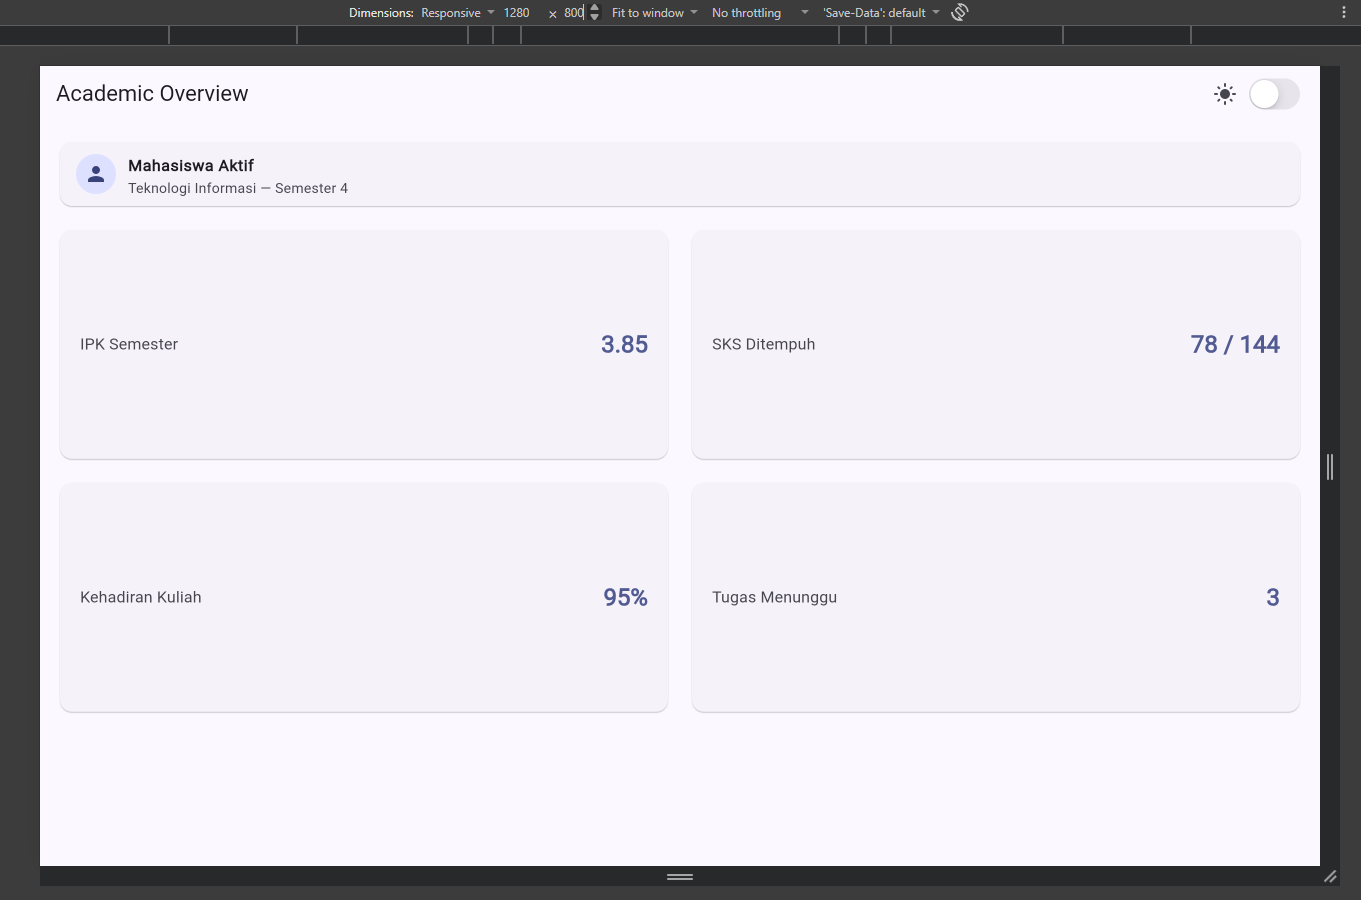
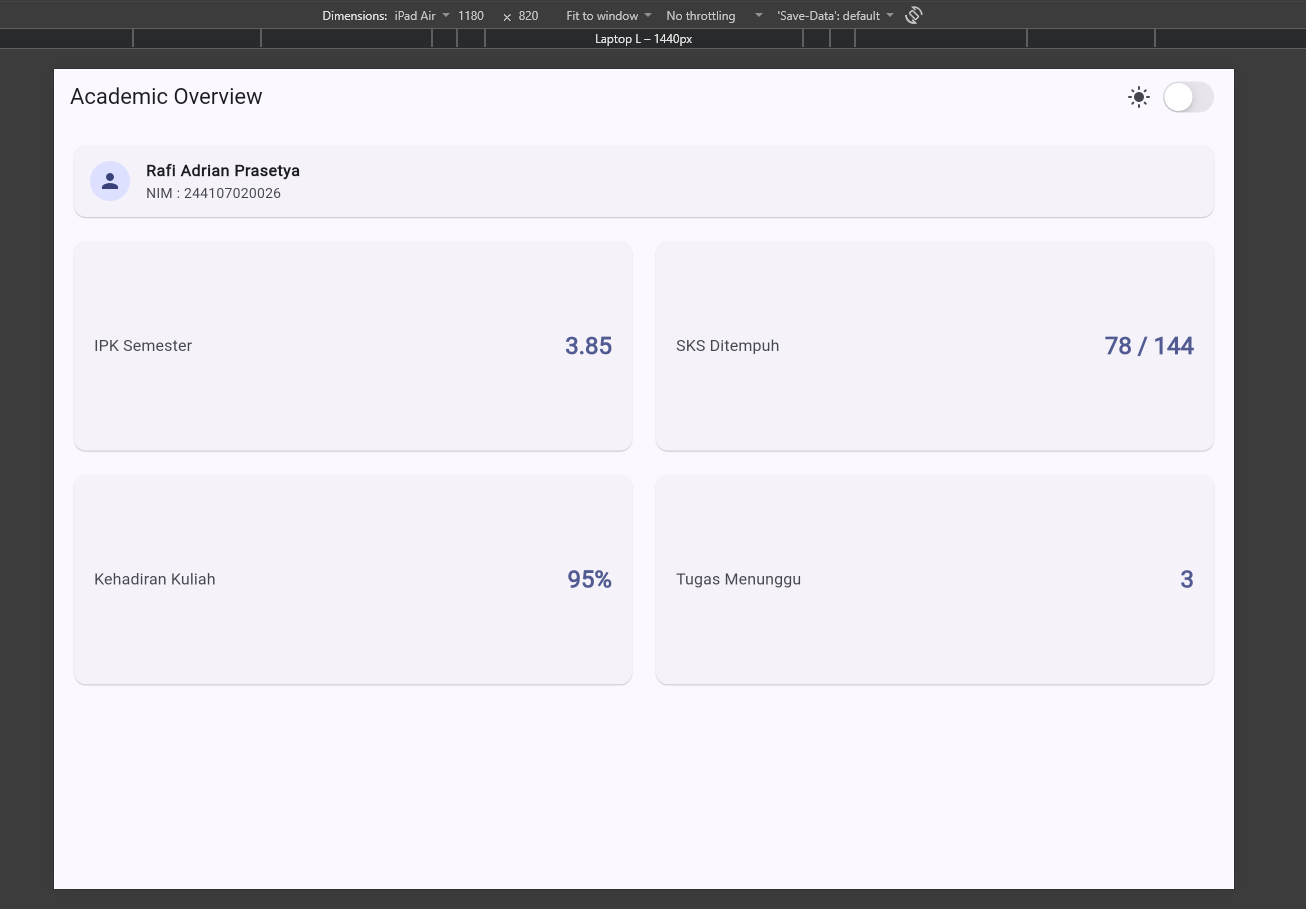
feat: image changes adding personal name and nim

diff --git a/02-week-2-declarative-ui-responsive-design/responsive_dashboard/lib/main.dart b/02-week-2-declarative-ui-responsive-design/responsive_dashboard/lib/main.dart
@@ -83,10 +83,10 @@ class DashboardPage extends StatelessWidget {
                     child: ListTile(
                       leading: CircleAvatar(child: Icon(Icons.person)),
                       title: Text(
-                        'Mahasiswa Aktif',
+                        'Rafi Adrian Prasetya',
                         style: TextStyle(fontWeight: FontWeight.bold),
                       ),
-                      subtitle: Text('Teknologi Informasi — Semester 4'),
+                      subtitle: Text('NIM : 244107020026'),
                     ),
                   ),
                 ),
